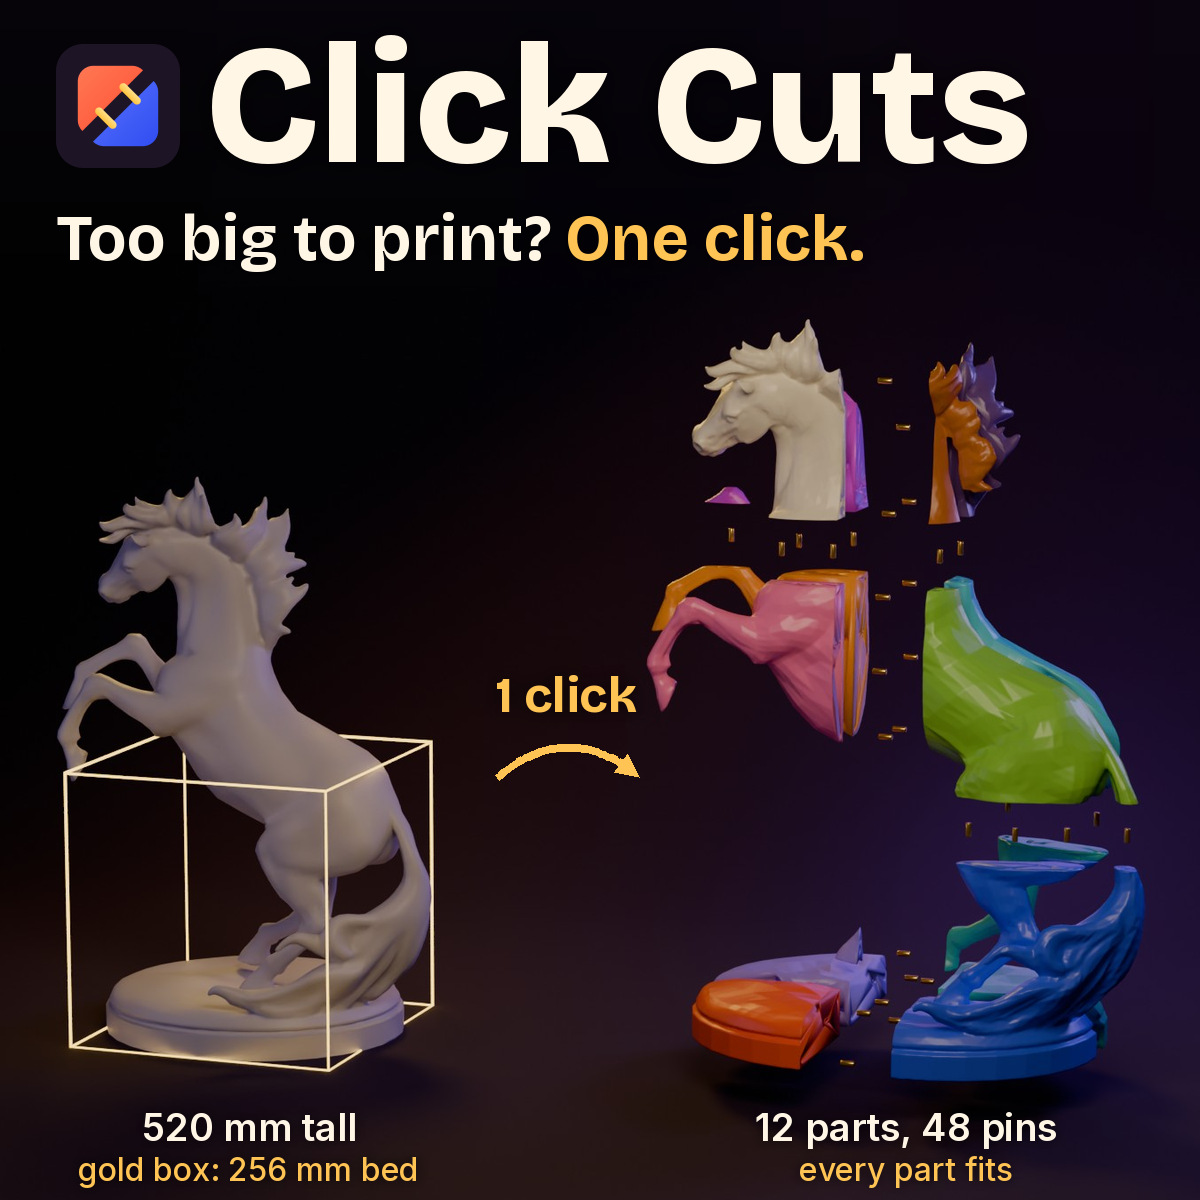
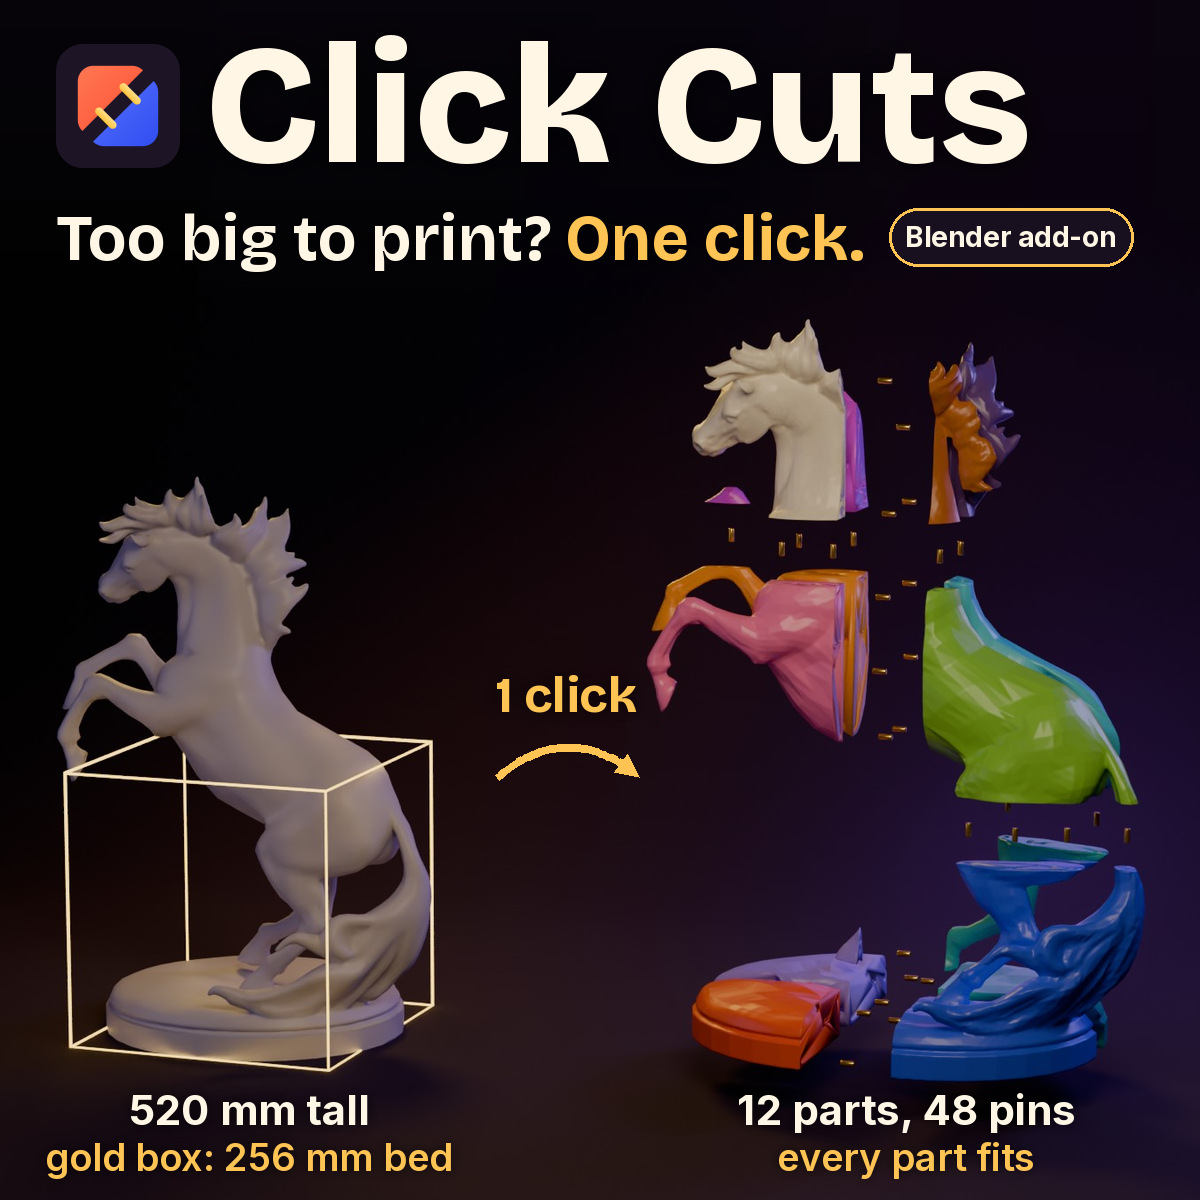
Click Cuts vierkant ronde 2: pil Blender add-on, grotere labels (#147)
Claude-Session: https://claude.ai/code/session_01RMWUyfn57NR3KzbcMeh4za

Changed region(s): [[0.0308, 0.8942, 0.4008, 0.9867], [0.6167, 0.8942, 0.8942, 0.9867], [0.74, 0.185, 0.9558, 0.2158]]

diff --git a/ontwerp/cuts-hoofdbeeld/bron/vierkant.py b/ontwerp/cuts-hoofdbeeld/bron/vierkant.py
@@ -98,6 +98,14 @@ def main():
     w1 = d.textlength(t1, font=fs)
     schaduwtekst(img, (x, y), t1, fs, CREME)
     schaduwtekst(img, (x + w1, y), "One click.", fs, GOUD)
+    # ronde 2: ChatGPT vroeg twee keer om "Blender add-on" in beeld
+    fpil = font("Inter.ttf", 28, "Bold")
+    tp = "Blender add-on"
+    px0 = x + w1 + d.textlength("One click.", font=fs) + 24
+    bb = d.textbbox((0, 0), tp, font=fpil)
+    d.rounded_rectangle((px0, y + 8, px0 + bb[2] + 32, y + 66), radius=29, fill=(24, 16, 30, 235),
+                        outline=GOUD + (255,), width=3)
+    d.text((px0 + 16, y + 37 - (bb[3] + bb[1]) / 2), tp, font=fpil, fill=CREME)
 
     v, n, b = meta["vak_voor"], meta["vak_na"], meta["vak_bed"]
     vx0, vy0 = naar(v[0] * 2400, v[2] * 1350)
@@ -112,14 +120,14 @@ def main():
     pijl(img, vx1 + 10, py, nx0 - 4, py, GOUD)
     schaduwtekst(img, ((vx1 + nx0) / 2, py - 112), "1 click", font("Bricolage.ttf", 50, "Bold"), GOUD, anchor="ma")
     # labels
-    onder = min(max(vy1, ny1) + 14, S - 96)
-    fl = font("Inter.ttf", 38, "SemiBold")
-    fk = font("Inter.ttf", 32, "Medium")
+    onder = min(max(vy1, ny1) + 10, S - 116)  # ronde 2: labels groter (Gemini)
+    fl = font("Inter.ttf", 42, "Bold")
+    fk = font("Inter.ttf", 38, "SemiBold")
     schaduwtekst(img, (bx_mid, onder), f"{meta['hoogte_mm']:.0f} mm tall", fl, CREME, schaduw=6, anchor="ma")
-    schaduwtekst(img, (bx_mid, onder + 46), f"gold box: {meta['bed_mm']:.0f} mm bed", fk, GOUD, schaduw=6, anchor="ma")
+    schaduwtekst(img, (bx_mid, onder + 50), f"gold box: {meta['bed_mm']:.0f} mm bed", fk, GOUD, schaduw=6, anchor="ma")
     nm = (nx0 + nx1) / 2
     schaduwtekst(img, (nm, onder), f"{meta['stukken']} parts, {meta['pennen']} pins", fl, CREME, schaduw=6, anchor="ma")
-    schaduwtekst(img, (nm, onder + 46), "every part fits", fk, GOUD, schaduw=6, anchor="ma")
+    schaduwtekst(img, (nm, onder + 50), "every part fits", fk, GOUD, schaduw=6, anchor="ma")
 
     rgb = img.convert("RGB")
     rgb.save(os.path.join(UIT, "paard-vierkant-1200x1200.jpg"), quality=93, subsampling=0)

diff --git a/ontwerp/cuts-hoofdbeeld/LEESMIJ.md b/ontwerp/cuts-hoofdbeeld/LEESMIJ.md
@@ -20,3 +20,4 @@ Blinde test: set `organisatie/blindtest/sets/click-cuts-hoofdbeeld.json`.
 **25 nov ±04:40 NL, moet van Daan (#34):** regel 2 was "Pins, holes and part numbers on every cut"; te sterk, want bij een te kleine snede meldt de add-on "Glue this joint" en komt er geen pen. Nu: "Pins, holes and part numbers added for you". Alleen `bron/tekst.py` opnieuw gedraaid op de bestaande render (`beelden/paard-render.jpg`); de pixelvergelijking met de vorige versie laat alleen verschil zien in het vak van die regel. De render zelf is gelijk, dus geen nieuwe blinde test (zoals Daan schreef).
 
 **26 nov ±07:00 NL, vierkante Gumroad-thumbnail (#147):** `beelden/paard-vierkant-1200x1200.jpg` en `-600x600.jpg`, uit dezelfde render (`beelden/paard-render.jpg`, geen nieuwe render): vierkante uitsnede met het hele paard in het gouden bouwvolume links en de 12 stukken rechts, bovenaan "Click Cuts" groot en "Too big to print? One click.", labels "520 mm tall / gold box: 256 mm bed" en "12 parts, 48 pins / every part fits" (cijfers uit `beelden/paard.json`, GEZIEN). Leesbaar op 200 px (zelf bekeken). Maken: `python3 bron/vierkant.py beelden/paard-render.jpg beelden/paard.json beelden <fontmap> producten/blender-splitser/merk/icoon.svg`. Blinde test: set `organisatie/blindtest/sets/click-cuts-vierkant-gumroad.json` tegen de Gumroad-vierkanten van CatPin, Cleave en Split 3D Print (url's via de zoek-API van Gumroad, GEZIEN 26 nov).
+Ronde 1 GESLAAGD: Gemini 1,0, ChatGPT 1,0 (`organisatie/blindtest/uitslag/click-cuts-vierkant-gumroad-2026-11-26-0643.md`). Verbeterd met hun zinnen: pil "Blender add-on" naast de haak (ChatGPT, twee keer) en de labels onderaan groter en vetter (Gemini, twee keer). Ronde 2: set `click-cuts-vierkant-gumroad-r2.json`.
